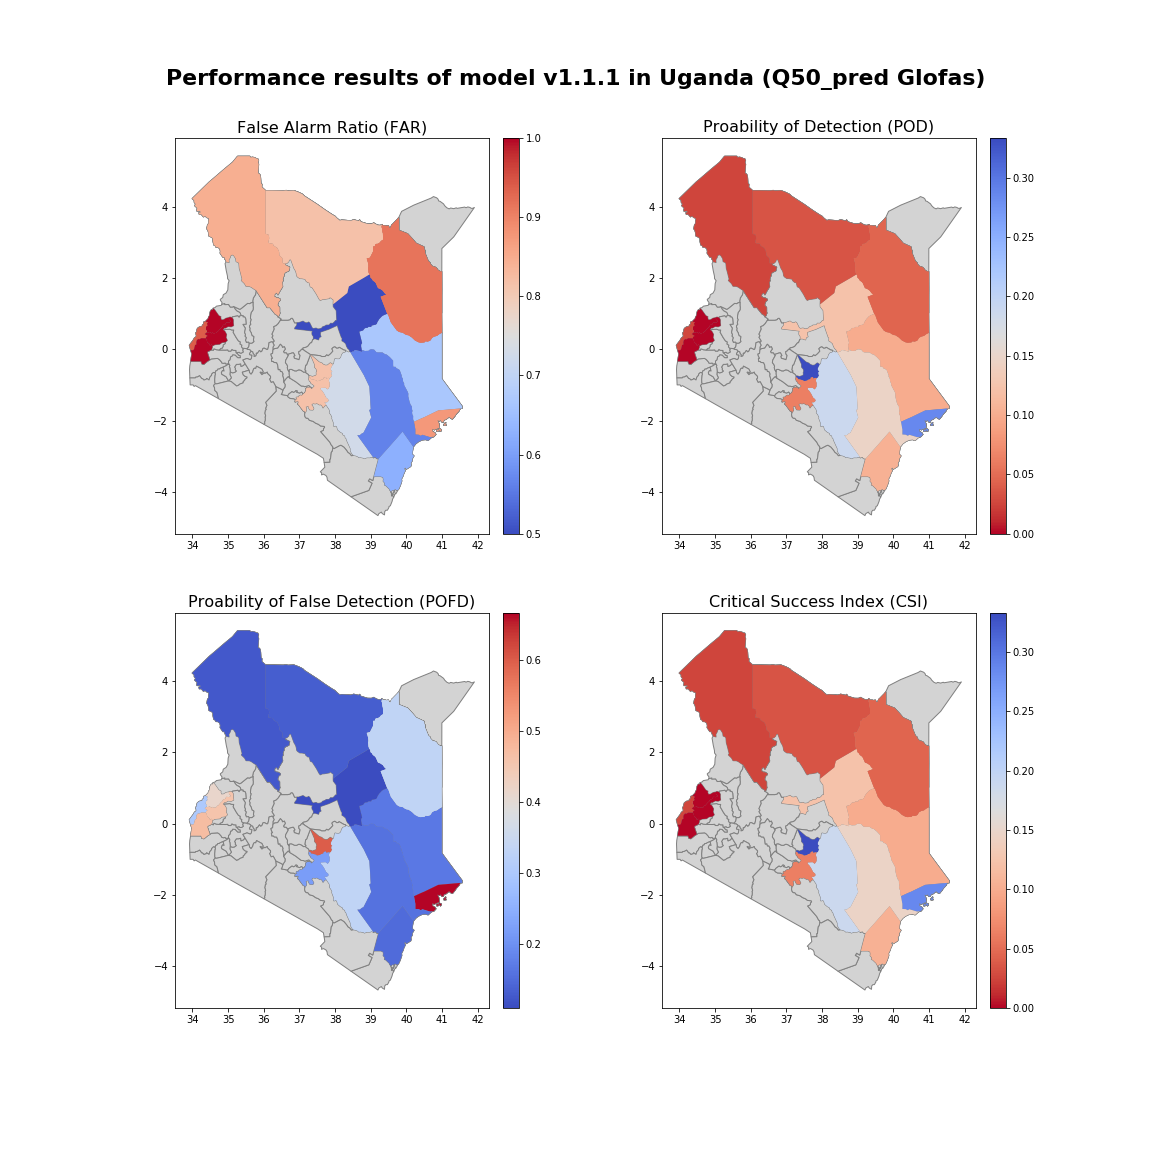
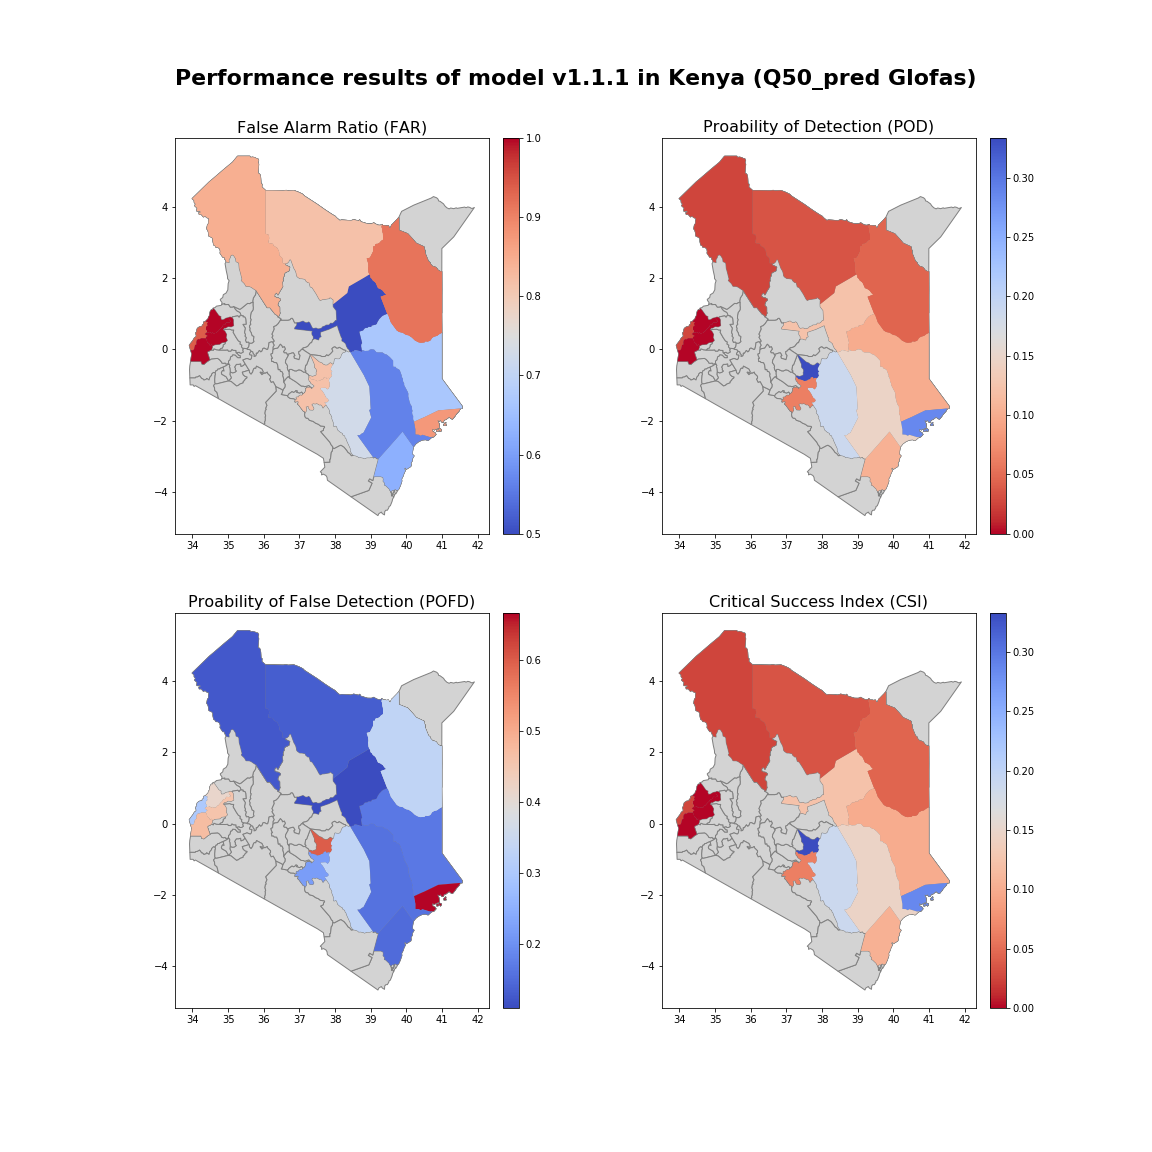
updated visual kenya

Changed region(s): [[0.1562, 0.0625, 0.8438, 0.0938]]

diff --git a/scripts/IBF_flood_model_performance_visual.py b/scripts/IBF_flood_model_performance_visual.py
@@ -26,8 +26,8 @@ from mpl_toolkits.axes_grid1 import make_axes_locatable
 
 #%% Cell to change per country
     
-country = 'Uganda'  
-ct_code='uga'
+country = 'Kenya'  
+ct_code='ken'
 
 #Path name to the folder uganda
 path= 'C:/CODE_510/V111_glofas/%s/' %country
@@ -35,12 +35,12 @@ path= 'C:/CODE_510/V111_glofas/%s/' %country
 # Read the path to the relevant admin level shape to use for the study
 
 #for Uganda activate the following lines :
-Admin= path + 'input/Admin/uga_admbnda_adm1_UBOS_v2.shp'   # for Uganda
-Admin_col = 'ADM1_EN'  # column name of the Admin name in the shapefile of Uganda
+#Admin= path + 'input/Admin/uga_admbnda_adm1_UBOS_v2.shp'   # for Uganda
+#Admin_col = 'ADM1_EN'  # column name of the Admin name in the shapefile of Uganda
 
 #for Kenya activate the following lines :
-#Admin= path + 'input/Admin/KEN_adm1_mapshaper_corrected.shp' # for Kenya
-#Admin_col = 'name'  # column name of the Admin name in the shapefile for Kenya
+Admin= path + 'input/Admin/KEN_adm1_mapshaper_corrected.shp' # for Kenya
+Admin_col = 'name'  # column name of the Admin name in the shapefile for Kenya
 
 # sources of the model perforfance results from the previous script V111_glofas
 model_performance = path + 'output/Performance_scores/%s_glofas_performance_score.csv' %ct_code
@@ -69,10 +69,10 @@ cax = divider.append_axes("right", size="5%", pad=0.2)
 
 merged_perf.plot(ax=ax, color='lightgrey', edgecolor='grey')
 ax.set_title('Number of recorded flood event per district', fontsize= 14)
-cmap = cm.get_cmap('jet', 20)    # adapt the number if needed
+cmap = cm.get_cmap('jet', 60)    # adapt the number if needed
 
 perfdrop= merged_perf.dropna(subset=['nb_event'])
-perfdrop.plot(ax=ax,column='nb_event', legend= True,vmin=1,vmax=20, cmap=cmap, cax=cax)    # adapt the vmax number if needed
+perfdrop.plot(ax=ax,column='nb_event', legend= True,vmin=1,vmax=60, cmap=cmap, cax=cax)    # adapt the vmax number if needed
 
 fig.savefig(path+'output/Performance_scores/Nb_event_district.png')
 
